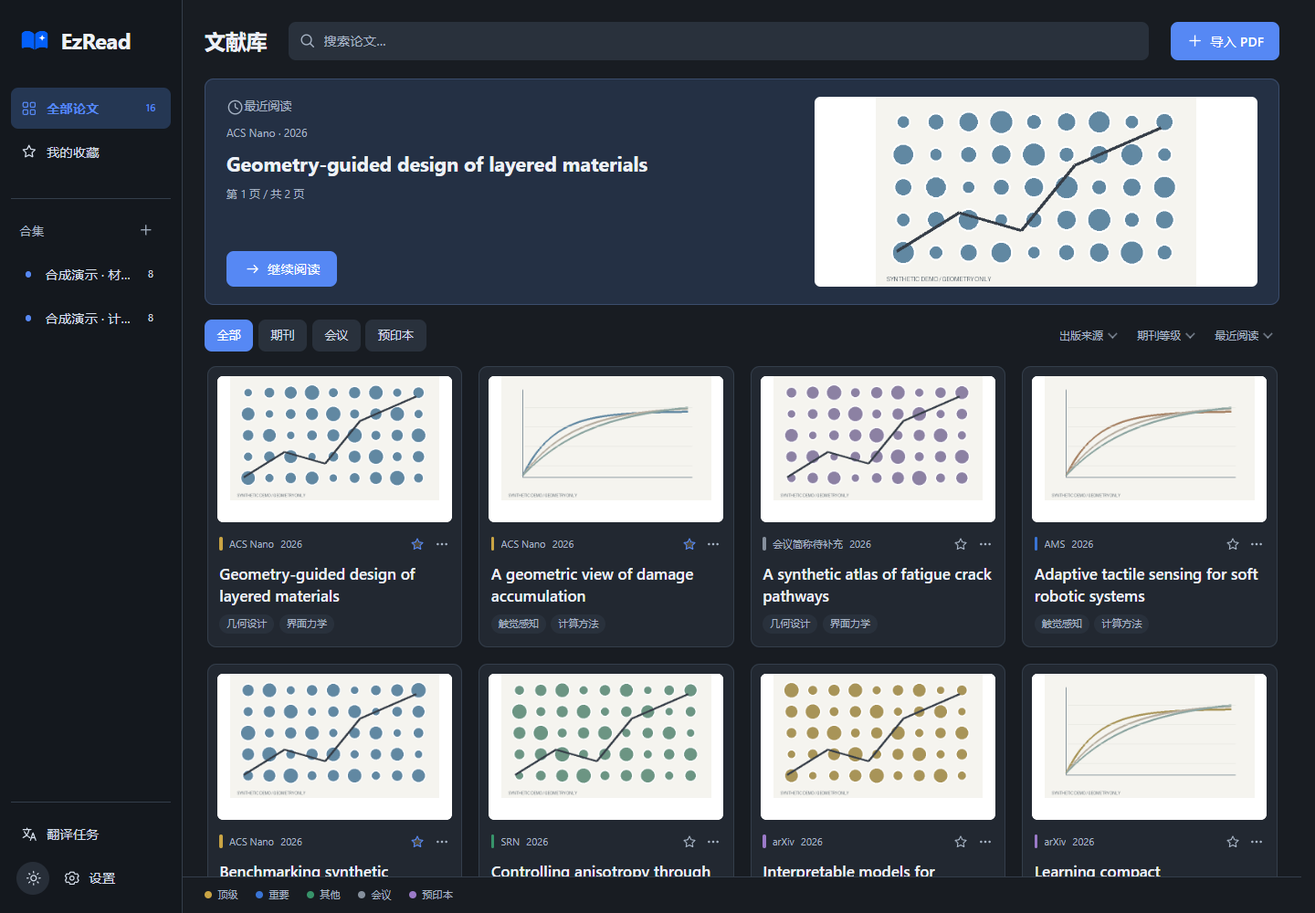
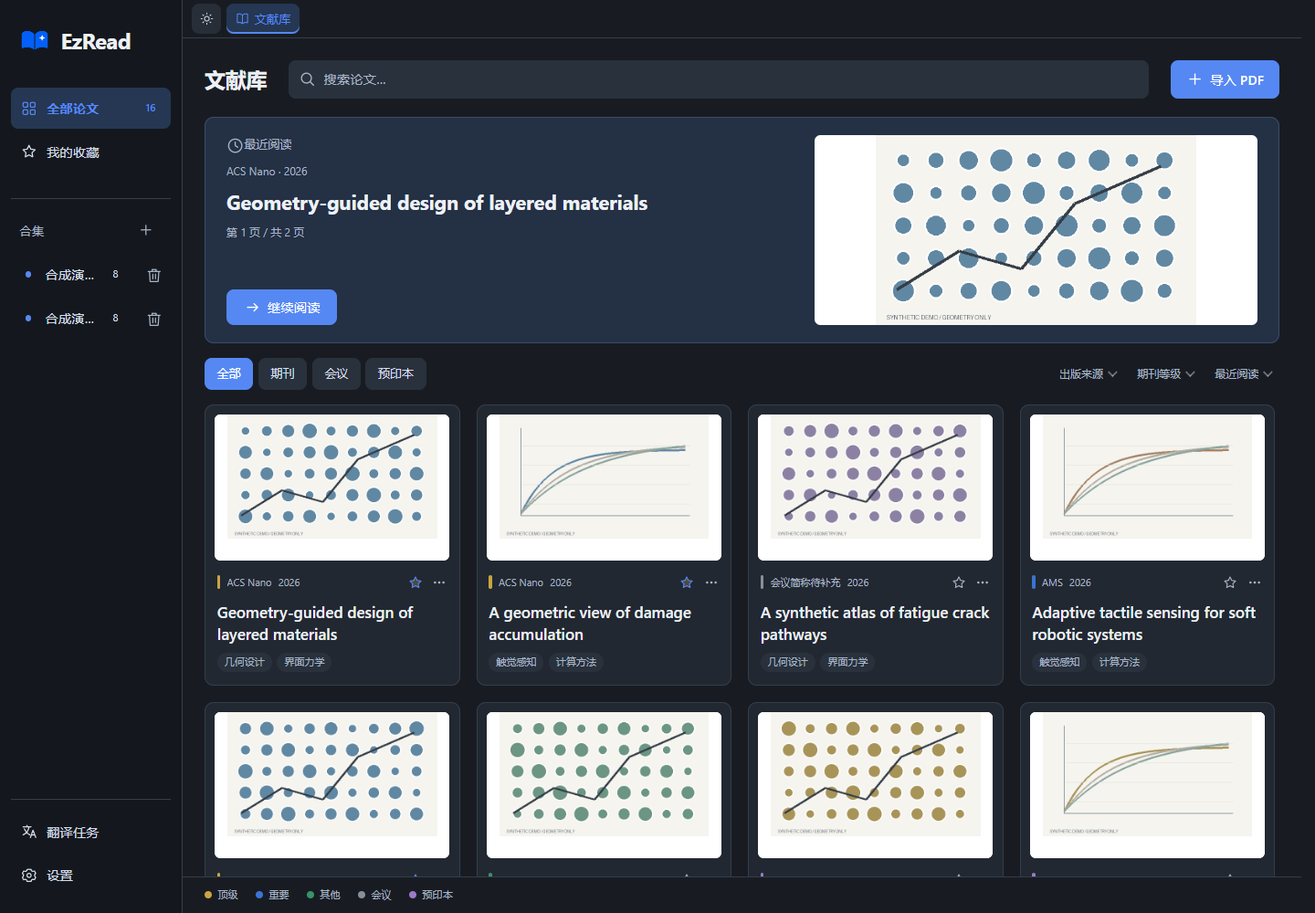
docs: improve onboarding, demos, feedback and maintenance evidence

diff --git a/scripts/capture-showcase.py b/scripts/capture-showcase.py
@@ -131,11 +131,14 @@ def generate_pdfs(destination):
 def main():
     parser = argparse.ArgumentParser(description=__doc__)
     parser.add_argument('--generate-pdfs', type=Path, help=argparse.SUPPRESS)
-    parser.add_argument('--node', default=os.environ.get('EZREAD_NODE', r'D:\APP\Node\node.exe'))
+    parser.add_argument('--node', default=os.environ.get('EZREAD_NODE') or shutil.which('node'),
+                        help='Node.js executable; defaults to EZREAD_NODE or PATH')
     args = parser.parse_args()
     if args.generate_pdfs:
         generate_pdfs(args.generate_pdfs)
         return
+    if not args.node:
+        parser.error('Node.js is required; add it to PATH or pass --node <executable>')
     output = ROOT / 'output/playwright' / f'showcase-{uuid.uuid4().hex}'
     data, pdfs = output / 'data', output / 'synthetic-pdfs'
     output.mkdir(parents=True)
@@ -212,8 +215,6 @@ def main():
             environment = {**os.environ, 'EZREAD_TEST_URL': f'http://127.0.0.1:{server.PORT}',
                            'EZREAD_TEST_ROOT': str(ROOT), 'EZREAD_TEST_DATA': str(data),
                            'EZREAD_TEST_OUTPUT': str(output)}
-            runtime = Path.home() / '.cache/codex-runtimes/codex-primary-runtime/dependencies/node'
-            environment.setdefault('EZREAD_PLAYWRIGHT', str(runtime / 'node_modules/playwright'))
             subprocess.run([args.node, str(ROOT / 'tests/capture_showcase.cjs')], cwd=ROOT,
                            env=environment, timeout=180, check=True)
             assert not forbidden, forbidden

diff --git a/docs/MAINTENANCE.md b/docs/MAINTENANCE.md
@@ -1,0 +1,56 @@
+# 维护、验证与真实反馈记录
+
+[中文介绍](../README.md) · [English overview](../README.en.md) · [提交反馈](https://github.com/Laity-nun0/EzRead/issues/new/choose)
+
+本记录供试用者和外部审阅者核查：解决过什么问题、证据在哪里、哪些仍未验证。核对日期为 **2026-10-21（UTC+8）**；没有将维护者自测、模拟结果或下载次数记为独立用户体验。
+
+## 已发布基线
+
+准备工作开始时，公开默认分支 `main` 与本地 HEAD 均为 `8c3cfe803ad3d52dd1856fbb21a9bc9777f0e7c2`；源码版本为 3.5.6。GitHub [Latest Release](https://github.com/Laity-nun0/EzRead/releases/latest) 在核对时指向 [windows-v3.5.6](https://github.com/Laity-nun0/EzRead/releases/tag/windows-v3.5.6)，发布于 2026-10-20，非草稿、非预发布。五个附件均显示已上传，含安装器、源码 ZIP、文件清单、SHA-256 清单和第三方声明。
+
+这些是本次读取公开 API 的结果，不代表本次重新下载、安装或核对了所有附件字节。功能与限制沿用该版本；本轮文档、模板和截图通过 `main` 提供，3.5.6 Release 及其附件保持原状，不发布新安装包。
+
+## 可核查的维护工作
+
+| 问题与用户可见结果 | 修复与发布 | 可检查的验证入口 |
+| --- | --- | --- |
+| 3.5.4 安装版缺少 BabelDOC 内部 `data` 资源，首次模型请求前翻译失败；3.5.5 保留依赖资源并限制根目录数据排除范围 | [5149d70](https://github.com/Laity-nun0/EzRead/commit/5149d70f0d0d0711aa6efce25d8389213522e450)，[3.5.5 Release](https://github.com/Laity-nun0/EzRead/releases/tag/windows-v3.5.5)；[问题与根因](KNOWN_ISSUES.md) | [发布边界与清单回归](../tests/test_release.py)、[安装后真实引擎模拟流程](../scripts/verify-installed-pdf.py)；导入探测通过不能代替完整流程 |
+| 多篇论文标签、关闭重开后的会话恢复，以及翻译未完成时的退出提醒 | [5149d70](https://github.com/Laity-nun0/EzRead/commit/5149d70f0d0d0711aa6efce25d8389213522e450)，[3.5.5 Release](https://github.com/Laity-nun0/EzRead/releases/tag/windows-v3.5.5) | [阅读会话验证](../scripts/verify-reader-session.py)、[关闭与后台归属验证](../scripts/verify-exit.py)；原生检查需独立文献库及 verification session |
+| PDF 重绘先清空画面造成闪动；改为画布完成后一次显示，并保留选择与复制 | [8c3cfe8](https://github.com/Laity-nun0/EzRead/commit/8c3cfe803ad3d52dd1856fbb21a9bc9777f0e7c2)，[3.5.6 Release](https://github.com/Laity-nun0/EzRead/releases/tag/windows-v3.5.6) | [PDF 回归](../tests/test_reader_pdf.js)、[实际浏览器阅读验证](../scripts/verify-reader-text.py)包含延迟绘制期间保留画面及文字层检查 |
+| 删除合集时保留其中论文与阅读数据；成功翻译后清理可丢弃的排版中间文件，失败与暂停材料继续保留 | [8c3cfe8](https://github.com/Laity-nun0/EzRead/commit/8c3cfe803ad3d52dd1856fbb21a9bc9777f0e7c2)，[3.5.6 Release](https://github.com/Laity-nun0/EzRead/releases/tag/windows-v3.5.6) | [合集回归](../tests/test_collections.py)、[PDF 任务回归](../tests/test_pdf_translation_tasks.py)，覆盖数据保留、哈希与路径边界 |
+
+这些工作在本轮之前已实现并发布，本轮没有重复修改功能。历史修复没有公开 Issue 时，以上使用实际提交与 Release 关联，不补造用户报告。
+
+公开 CI 可复核：[3.5.6 的 Windows/Python 3.10 与 3.12 离线检查及桌面构建](https://github.com/Laity-nun0/EzRead/actions/runs/39354168314)均成功；[3.5.6 安装包流水线](https://github.com/Laity-nun0/EzRead/actions/runs/39354168137)的构建、安装、启动、升级、卸载步骤均成功。入口为 [checks.yml](../.github/workflows/checks.yml) 与 [windows-installer.yml](../.github/workflows/windows-installer.yml)。这是对应提交当时的 CI 结果，不能代替新改动或真实账号的验收。
+
+## 2026-10-21 本轮准备工作与检查
+
+- 保留中文 README，增加[英文入口](../README.en.md)、离线首次试用步骤、API 条件及数据发送提示。
+- 更新五张[实际界面截图](images/README.md)，使用独立合成库与手写模拟译文，显示 3.5.6 的标签栏和常驻侧栏。修正拍摄脚本中的本机 Node／Playwright 路径依赖；未修改产品功能。
+- 新增[错误报告](../.github/ISSUE_TEMPLATE/bug_report.md)与[试用反馈](../.github/ISSUE_TEMPLATE/trial_feedback.md)模板，在[贡献指南](../CONTRIBUTING.md#试用反馈与维护追踪)中约定 Issue → 修复／PR → 回归 → Release → 复测的记录方式。
+
+| 检查 | 本轮结果与边界 |
+| --- | --- |
+| `python scripts/capture-showcase.py` | 通过，五张截图；页面／控制台／HTTP 错误和外部请求均为 0，私有配置读取和真实模型调用为 0。浏览器结果，不是原生安装验收 |
+| `python scripts/verify-reader-text.py` | 通过，6 项浏览器检查；覆盖宽窄视口、后台完成后双 PDF、重绘期间保留画面与文字层、复制、缩放、笔记和位置恢复。真实模型调用、真实库写入及页面错误均为 0 |
+| `python scripts/check.py` | 退出码 0。Python 共运行 711 项测试，4 项按环境条件跳过，未视为已验收；其余通过。Ruff、源码内容审查、前端语法及全部 Node 回归通过；普通验证未执行真实模型推理 |
+| 文档链接、模板及发布内容检查 | 7 份 Markdown 的 71 个本地链接／锚点和两份模板元数据通过；缺少 Node 时在建库前明确失败。Ruff、483 个候选路径的源码内容审查及 `git diff --check` 通过；五张截图逐张检查。没有将此检查称为 Git 历史审计或 GitHub 模板上线验收 |
+| 推送前隐私与历史检查 | 远端基线为 `8c3cfe8`，开始时没有额外待推送提交；本次仅纳入 13 个文档、模板、合成截图及拍摄脚本文件。检查文本、逐张截图及 PNG 元数据，未发现私人文献、对话、账号凭据或个人路径；五张 PNG 均无附加元数据。提交使用公开 GitHub noreply 身份，不发布本机配置、库或日志 |
+
+本轮没有以真实密钥调用供应商，也没有重新执行安装、升级、卸载或跨显示器原生验收。截图中的文献直接由 fixture 建立，不构成新用户导入成功的证据。复杂扫描件、公式、图表、特殊字体和旋转页的实际译文仍须人工对照原 PDF；模拟响应不能证明语义准确或所有可见对象完整。
+
+## 公开数据快照与口径
+
+数据来自 2026-10-21 读取的 [GitHub 仓库 API](https://api.github.com/repos/Laity-nun0/EzRead)、[全部 Release API](https://api.github.com/repos/Laity-nun0/EzRead/releases?per_page=100)及[全部 Issue／PR 列表 API](https://api.github.com/repos/Laity-nun0/EzRead/issues?state=all&per_page=100)。返回 5 个公开 Release、0 条 Issue／PR，均未达每页 100 条上限；以下只是当日快照。
+
+| 指标 | 数值及统计范围 |
+| --- | --- |
+| Release 安装器下载计数 | 合计 **7**：3.5.2 为 0、3.5.3 为 0、3.5.4 为 4、3.5.5 为 1、3.5.6 为 2；仅累计 `*-Setup-x64.exe` 的 `download_count` |
+| Release 源码 ZIP 下载计数 | 合计 **1**，来自 3.5.6 的显式源码附件；不含 GitHub 自动生成的 ZIP／tarball、clone 或其他附件 |
+| Star | **0**，仓库 `stargazers_count`；与安装／使用无直接等价关系 |
+| 外部 Issue | **0**，已公开 Issue 中非维护者账号提交的条目，含已关闭条目、排除 PR；没有把私下交流补记为公开 Issue |
+| 外部 PR | **0**，公开列表中的非维护者 PR，含已关闭条目；没有把本地提交算作社区贡献 |
+| 独立用户数、活跃用户数 | **未知**；未部署遥测或账号统计，下载中可能含维护者验证及重复下载 |
+| 结构化外部试用反馈 | 尚无公开记录；模板提供后续收集方式，未虚构评价 |
+
+不能从上述小样本下载量推出真实用户数或项目影响力。后续只在实际重新读取来源时更新日期和数值；若接口超出一页须分页，不用 `open_issues_count` 代替全部 Issue 或 PR 数。

diff --git a/README.md b/README.md
@@ -1,6 +1,10 @@
 # EzRead
 
+[English](README.en.md) · [下载安装](https://github.com/Laity-nun0/EzRead/releases/latest) · [首次试用](#首次试用) · [维护与验证记录](docs/MAINTENANCE.md) · [报告问题或反馈](https://github.com/Laity-nun0/EzRead/issues/new/choose)
+
 **独立维护的 Windows 论文阅读器，基于开源 EzRead 深度二次开发。**
+
+面向需要整理本地英文 PDF、对照中文译文并记录笔记的学生与科研人员。当前软件界面为中文；本文功能说明以已发布的 [3.5.6](https://github.com/Laity-nun0/EzRead/releases/tag/windows-v3.5.6) 为基线，发布状态核对日期为 2026-10-21。
 
 本项目源自 [zhuangcao136-glitch/EzRead](https://github.com/zhuangcao136-glitch/EzRead)，由 [Laity-nun0](https://github.com/Laity-nun0/EzRead) 在其基础上持续开发。保留原项目的 MIT 版权声明与提交历史；当前仓库独立维护翻译流程、阅读界面和 Windows 安装版。改动发生在本仓库，不会自动修改原作者仓库。
 
@@ -18,7 +22,7 @@
 
 ## 当前界面
 
-以下截图来自实际运行的当前界面，使用完全合成的文献、配图及演示数据。阅读器中的中文 PDF 为手写模拟译文，仅展示界面，不代表真实模型翻译质量。
+以下截图于 2026-10-21 从实际运行的 3.5.6 网页界面拍摄，使用完全合成的文献、配图及演示数据。阅读器中的中文 PDF 为手写模拟译文，仅展示界面，不代表真实模型翻译质量；未调用模型。截图不包含原生窗口边框。来源、操作顺序和复现方法见[演示说明](docs/images/README.md)。
 
 ### 日间文献库
 
@@ -45,7 +49,7 @@
 - **导入和整理**：拖入 PDF，使用收藏、手动合集、搜索与筛选整理文献。期刊颜色依据[内置名单](JOURNAL_TIERS.md)，可在设置中编辑，不代表单篇论文质量。
 - **多篇阅读**：顶部标签栏切换文献，点击标签的关闭按钮只关闭该篇；点击“文献库”可继续打开其他文献。阅读时保留侧边栏与同一顶部导航，日夜切换在文献库按钮左侧，翻译任务与设置上下排成一列。重新启动会恢复关闭前的标签、当前篇与已保存的阅读状态。
 - **关闭提醒**：仍有运行或排队中的翻译任务时，关闭应用会先询问。选择“否”继续使用；确认退出后暂停任务，已完成的结果保留，重开后可手动继续。
-- **按需翻译**：在设置中保存翻译 API Key，再从论文的翻译入口确认任务。版面解析与排版在本地，必要原文与术语发送给所选 API；费用由供应商收取。复杂表格、公式、特殊字体和扫描件有适用限制，详见[保留版式翻译](docs/PDF_LAYOUT.md)。
+- **按需翻译**：在设置中保存翻译 API Key，再从论文的翻译入口确认任务。版面解析与排版在本地，必要原文与术语发送给 DeepSeek API；费用由供应商收取。复杂表格、公式、特殊字体和扫描件有适用限制，生成成功也需对照原 PDF 核对语义与图形，详见[保留版式翻译](docs/PDF_LAYOUT.md)。
 - **问答与笔记**：问答使用独立配置与本篇证据，历史对话保存在本机。论文笔记与阅读位置持久保存；当前 PDF 阅读器尚无坐标批注或译文手工修订入口。
 - **数据目录**：安装版初始位置为 `%LOCALAPPDATA%\EzRead\data`，源码版为项目 `data/`。3.5.3 起可在“设置 → 文献与备份 → 选择目录并迁移”中更改，核验后自动重启，原库保留。选择软件安装位置不会改变文献目录。
 - **备份与升级**：在设置中导出备份，退出软件后安装新版。卸载保留文献库。备份不包含 API 密钥，换电脑后需重新填写；目录迁移则在本机完整复制私有配置。详细步骤见[安装版说明](docs/INSTALLER.md)。
@@ -53,6 +57,16 @@
 `EZREAD_DATA_DIR` 可显式指定已有文献库，优先于界面保存的位置；它只切换指向，不会搬迁文件。环境变量控制目录时，界面会要求先解除覆盖再迁移。不同时启动多份软件写入同一库。
 
 本地阅读无需密钥。模型功能的发送范围见 [API 使用说明](docs/AI_API.md#使用与发送范围)：新 PDF 导入后，配置完整时会自动校对首页与标题结构；全文翻译、问答与研究速览按界面操作发起。保存设置、启动和刷新状态不调用模型、不查询账户余额；用量只显示本次运行的供应商报告值。
+
+## 首次试用
+
+1. 安装后从桌面或开始菜单打开 EzRead。没有文献时显示空库是正常状态；本地阅读无需注册 EzRead 账号或配置模型。
+2. 点击“导入 PDF”或拖入一篇你有权使用、带可选文字的 PDF。点击文献卡片直接阅读，阅读器内的“论文简介”可查看信息；用顶部“文献库”返回列表，可继续打开其他论文标签。
+3. 在阅读器点击“笔记”记录一句话，翻到另一页，正常关闭后重新打开，核对标签、笔记和阅读位置是否保留。这一步无需联网或模型。
+4. 如需翻译，在“设置 → 翻译”保存自己的 DeepSeek API Key，再从“保留版式翻译”入口审阅并确认任务。问答密钥在“设置 → 问答”独立保存。需要 API 服务可达、相应模型权限及可用额度；本机显示配置就绪不代表服务已经连通。**配置翻译密钥后，新导入 PDF 的结构校对会自动发送候选文字**，详见上述发送范围。
+5. 翻译完成后对照原文／译文，尝试同步滚动并核对公式和图表；也欢迎只反馈前三步的离线体验。用[试用反馈模板](https://github.com/Laity-nun0/EzRead/issues/new?template=trial_feedback.md)记录实际完成的步骤、阻碍和是否调用过真实模型。
+
+安装程序尚未进行商业代码签名；Windows 以外的系统未经本项目桌面验收。已修复的安装故障见[已知问题与修复](docs/KNOWN_ISSUES.md)，当前 PDF 能力与限制见[翻译说明](docs/PDF_LAYOUT.md)。
 
 ## 源码与开发
 
@@ -68,4 +82,4 @@ git clone https://github.com/Laity-nun0/EzRead.git
 
 感谢原项目作者与第三方组件贡献者。独立维护和大幅改造不改变原代码的版权来源。项目源码与文档沿用 [MIT License](LICENSE)；ECDICT、BabelDOC、PyMuPDF／MuPDF 等资源遵循各自许可。安装包中的 AGPL PDF 组件附带对应源码，详见[第三方声明](THIRD-PARTY-NOTICES.md)。
 
-问题请提交至[本仓库 Issues](https://github.com/Laity-nun0/EzRead/issues)，附图前遮住私人论文、对话和账号信息。本仓库的版本号和发布节奏独立于上游，不表示已经合入上游后续功能。
+问题请使用[错误报告或试用反馈模板](https://github.com/Laity-nun0/EzRead/issues/new/choose)，提供软件与 Windows 版本、复现步骤、预期和实际结果；附图或日志前移除私人论文、对话、账号、密钥与授权链接。不要上传整个文献库或 API 原始响应。维护者如何关联问题、修复和版本见[贡献指南](CONTRIBUTING.md#试用反馈与维护追踪)，已完成工作与验证边界见[维护记录](docs/MAINTENANCE.md)。本仓库的版本号和发布节奏独立于上游，不表示已经合入上游后续功能。

diff --git a/README.en.md b/README.en.md
@@ -1,0 +1,43 @@
+# EzRead
+
+[简体中文](README.md) · [Download](https://github.com/Laity-nun0/EzRead/releases/latest) · [Feedback](https://github.com/Laity-nun0/EzRead/issues/new/choose)
+
+**A Windows desktop reader for researchers and students who organize local papers and read English PDFs alongside Chinese translations.** The current application UI is in Chinese.
+
+This independently maintained derivative of [zhuangcao136-glitch/EzRead](https://github.com/zhuangcao136-glitch/EzRead) preserves the upstream MIT notice and history. The features below describe released **3.5.6**, checked on 2026-10-21. See [provenance](docs/DERIVATION.md) and [maintenance evidence](docs/MAINTENANCE.md) for implementation, release and verification links.
+
+## What works today
+
+- Import PDFs, search and filter a local library, manage favorites and manual collections.
+- Read several papers in tabs; restore tabs, reading positions and notes after restarting.
+- Generate derived Chinese and bilingual PDFs through BabelDOC and your own DeepSeek API access; compare original and translated PDFs with synchronized scrolling.
+- Ask questions about the current paper using a separately configured API key; keep conversations and notes locally.
+- Back up the library, migrate its directory through Settings, and upgrade or uninstall while retaining user data.
+
+![Library with synthetic papers](docs/images/library.png)
+
+![Original and manually authored Chinese demonstration PDF](docs/images/reader.png)
+
+These are actual browser-rendered 3.5.6 screens captured on 2026-10-21, without native window borders. All papers and figures are synthetic. The Chinese PDF was manually authored, **not generated by a model**. No real model calls were made. See [all screenshots and reproduction instructions](docs/images/README.md).
+
+## Install and try
+
+Use Windows 10 1809 or later, x64, with .NET Framework 4.8 and WebView2. Download `EzRead-<version>-Setup-x64.exe` from [Releases](https://github.com/Laity-nun0/EzRead/releases/latest). Python and the PDF runtime are included; missing WebView2 requires an internet download during installation. The installer is not commercially code-signed. Other operating systems have not been validated for this desktop edition.
+
+1. Open EzRead from the desktop or Start menu. An empty library is normal on first launch.
+2. Choose **导入 PDF** (Import PDF), or drag in a text-based PDF you may use. Click its card to read; **论文简介** opens its details. **文献库** returns to the library so you can open another tab.
+3. Open **笔记** (Notes), write a note, move to another page, then close and reopen EzRead to check restoration. This local workflow needs no account, API key or network.
+4. Optionally save a DeepSeek key under **设置 → 翻译** (Settings → Translation). Choose **保留版式翻译**, review the task and confirm. Q&A has its own key under **设置 → 问答**. AI requires network access, model permission and available provider quota. Saving a key does not test connectivity.
+5. Compare the resulting PDFs and check formulas, figures and meaning. Report what you actually tried using the [trial feedback template](https://github.com/Laity-nun0/EzRead/issues/new?template=trial_feedback.md), or file a [bug report](https://github.com/Laity-nun0/EzRead/issues/new?template=bug_report.md).
+
+No Codex installation or sign-in is needed. The current UI exposes DeepSeek; retained backend protocol compatibility does not make other providers selectable. **Once a translation key is configured, importing a new PDF automatically sends first-page and candidate-heading text for structure checking.** Full translation, Q&A and research overviews follow explicit UI actions. See [data sent to APIs](docs/AI_API.md#使用与发送范围).
+
+## Limits, data and contribution
+
+Complex layouts, scanned PDFs, unusual fonts, formulas and rotated text need manual review. A successful job or simulated test does not establish translation accuracy or complete visual fidelity. PDF coordinate annotations and manual translation editing are not exposed in the current reader. See [PDF limitations](docs/PDF_LAYOUT.md) and [known issues and fixes](docs/KNOWN_ISSUES.md).
+
+Installed data defaults to `%LOCALAPPDATA%\EzRead\data`; source runs use the repository's `data/`. Export a backup and close EzRead before upgrading. Exported backups exclude API keys. See [installation and migration](docs/INSTALLER.md).
+
+For source setup and checks, use [CONTRIBUTING.md](CONTRIBUTING.md); detailed technical guides are currently in Chinese. Submit issues in Chinese or English with the app version, OS version, reproduction steps, expected and actual results. Remove keys, authorization links, private papers and personal details from attachments; do not upload a whole library or raw API responses.
+
+Source and documentation retain the [MIT License](LICENSE). Bundled components retain their own licenses and source obligations; see [third-party notices](THIRD-PARTY-NOTICES.md).

diff --git a/docs/images/README.md b/docs/images/README.md
@@ -1,0 +1,37 @@
+# 实际界面演示与复现
+
+[中文介绍](../../README.md) · [English overview](../../README.en.md) · [维护与验证](../MAINTENANCE.md)
+
+## 演示来源与操作
+
+2026-10-21，Windows 11 x64，源码版本 3.5.6，功能基线为提交 `8c3cfe803ad3d52dd1856fbb21a9bc9777f0e7c2`。使用 Python 3.12.0、Node.js 24.14.0、Playwright 1.62.1 和本机 Edge，以 1440 × 1000 视口拍摄实际运行的网页界面；没有原生窗口边框，不是设计稿或原生安装验收。
+
+Actual browser-rendered UI, synthetic data, no model calls. The Chinese PDF is manually authored. These screenshots demonstrate the interface, not translation quality or an installer test.
+
+| 顺序 | 截图 | 可看到的实际操作 |
+| --- | --- | --- |
+| 1 | [日间文献库](library.png) | 打开包含 16 篇合成文献的隔离库，显示最近阅读、收藏、合集和卡片 |
+| 2 | [夜间文献库](library-dark.png) | 点击顶部日月按钮切换夜间主题 |
+| 3 | [PDF 对照阅读](reader.png) | 切回日间，点击“继续阅读”，打开已有合成原文与手写中文 PDF；显示标签栏、常驻侧栏与同步滚动入口 |
+| 4 | [期刊等级](journal-tiers.png) | 返回文献库，打开“设置 → 期刊等级” |
+| 5 | [翻译设置](translation-settings.png) | 切换到“翻译”设置；密钥为空，不提交任务 |
+
+正文、封面、曲线和中文 PDF 均由演示脚本创作，没有使用真实论文或实测数据。卡片借用部分真实期刊名称来展示名单配色，不代表这些虚构论文曾在该期刊发表。文献元数据和已有译文由脚本直接写入隔离库，**没有演示导入解析或实际模型翻译**。翻译结果和研究结论不能从这些图片推断。
+
+拍摄核对 `/api/health` 的源码目录、独立数据目录和版本，等待全部封面及两侧 PDF 画布／文字层加载，检查 JS、HTTP 和控制台错误；浏览器拦截外部请求和模型功能提交，服务端阻止模型调用并屏蔽私有 API 配置读取。本次五张均拍摄成功，错误、外部请求和模型调用均为 0，并逐张检查公开内容。
+
+## 在自己的工作区重拍
+
+先按[贡献指南](../../CONTRIBUTING.md)准备项目虚拟环境，并按 [PDF 运行时说明](../PDF_LAYOUT.md#独立运行时)准备 `.deps/babeldoc/runtime/`。需要 Windows、已安装的 Microsoft Edge、Node.js 与 Playwright；已有 Playwright 可直接通过 `EZREAD_PLAYWRIGHT` 指定模块目录。首次获取依赖需要联网，拍摄时只允许回环请求。
+
+没有现成 Playwright 时，可只在忽略的 `work/` 中安装演示依赖，不改变产品依赖或全局 npm：
+
+```powershell
+npm install --prefix work/showcase-tools --no-save playwright@1.62.1
+$env:EZREAD_PLAYWRIGHT = Join-Path (Get-Location) 'work/showcase-tools/node_modules/playwright'
+.\.venv\Scripts\python.exe scripts/capture-showcase.py
+```
+
+脚本优先使用 `EZREAD_NODE`，否则从 PATH 找 Node；也可传 `--node <可执行文件路径>`。脚本创建随机端口和全新合成库，不需要运行真实 EzRead；不要把真实 `data/` 复制进演示目录。它会更新此目录的五张固定 PNG，模型配置保持模拟且密钥为空。
+
+本机诊断输出位于 `output/playwright/showcase-<随机ID>/`，包含合成库和带本机路径的报告，**不用于直接公开**。先核对报告、逐张检查截图，并确认脚本与浏览器进程退出；验证成功后仅保留五张交付图片，删除本次不再需要的合成库、报告和截图副本。依赖目录如需再次拍摄可保留。

diff --git a/CONTRIBUTING.md b/CONTRIBUTING.md
@@ -2,6 +2,21 @@
 
 先阅读 [AGENTS.md](AGENTS.md) 和 [架构说明](docs/ARCHITECTURE.md)。个人定制可以在自己的分支维护；适合大家的改动再提交 Pull Request。
 
+## 试用反馈与维护追踪
+
+无需先搭开发环境。安装用户可按 [README 的首次试用流程](README.md#首次试用)体验，再使用[错误报告或试用反馈模板](https://github.com/Laity-nun0/EzRead/issues/new/choose)。中文、英文反馈均可；顺利完成的步骤和遇到的阻碍都有帮助。软件版本、Windows 版本、安装版／源码版、复现步骤及预期／实际结果比一句“不能用”更便于处理。涉及模型时说明是否真实调用、供应商和安全错误码，无需提供密钥或原始响应。
+
+附件先移除私人论文、对话、用户名、绝对路径、API Key、OAuth／授权链接和账号信息。优先用合成或有权公开的小样本；不要上传整个 `data/`、私有设置、浏览器 profile 或完整 API 请求／响应。暂时无法分享样本时，先说明版式和症状，不要求公开受限文献。
+
+维护工作沿用 GitHub Issue、提交／PR 和 Release，不另建用户统计系统：
+
+1. 在 Issue 中记录“待补充／已复现／未复现”，注明实际检查的版本和条件；同一故障关联原 Issue。
+2. 修复提交或 PR 引用 Issue，并说明回归入口及结果；尚未验证的部分明确保留。
+3. 发布说明列出修复的 Issue／PR、提交和版本；修复已在分支中但未发布时，明确标为“待发布”。
+4. 请报告者在修复版本复测并回复结果；没有回复不算验证成功。试用反馈中可继续关联后续问题，不将维护者自测称为外部用户试用。
+
+[维护与验证记录](docs/MAINTENANCE.md)汇总已有证据及本轮检查。新增记录只写实际发生的工作，注明日期、版本、命令／CI 链接和限制。下载次数按 Release 附件分别统计，Star、外部 Issue／PR 与独立用户数分别记录；未知就写未知，不把下载或自测当作用户数。
+
 ## 开发环境
 
 需要 Python 3.10+；开发依赖由 `requirements-dev.txt` 包含运行依赖与固定版本 Ruff。离线回归还需要 Node.js；前端本身无需 npm、CDN 或构建步骤。

diff --git a/.github/ISSUE_TEMPLATE/trial_feedback.md b/.github/ISSUE_TEMPLATE/trial_feedback.md
@@ -1,0 +1,36 @@
+---
+name: "试用反馈 / Trial feedback"
+about: "记录实际完成的操作、阻碍和建议 / Share what you tried and what got in the way"
+title: ""
+---
+
+只记录你实际体验过的内容；未尝试的功能可写“未尝试”。无需运行模型或付费来反馈本地阅读体验。中文、英文均可。
+Report only what you actually tried; mark other features as not attempted. Local-reading feedback needs no paid model calls. Chinese or English is welcome.
+
+### 版本与环境 / Version and environment
+
+- EzRead 版本／提交号 / App version or commit:
+- Windows 版本与系统架构 / Windows version and architecture:
+- 安装版或源码版 / Installer or source:
+
+### 实际尝试的流程 / Workflow actually tried
+
+例如：下载 → 首次启动 → 导入 → 阅读 → 保存笔记 → 关闭重开。请按顺序描述，注明停在哪一步。
+For example: download → launch → import → read → save a note → reopen. Describe the steps in order and where you stopped.
+
+### 预期与实际体验 / Expected and actual experience
+
+- 顺利完成的部分 / What worked:
+- 阻碍、错误或不清楚的地方 / What failed or was unclear:
+- 对应步骤及是否可重复 / Related step and reproducibility:
+
+### 模型调用情况 / Model usage
+
+- [ ] 未尝试模型功能 / No AI features attempted
+- [ ] 只配置或尝试调用，未获得成功结果 / Configured or attempted, no successful result
+- [ ] 实际 API 调用成功（可注明供应商与模型，无需密钥） / Real API call succeeded (provider/model only)
+
+### 建议或脱敏附件（可选） / Suggestions or redacted attachments, optional
+
+先移除私人论文、对话、账号、个人路径、密钥及 OAuth／授权链接。不要上传整个文献库、私有设置或原始 API 请求／响应。
+Remove private papers, conversations, account details, personal paths, keys and authorization links. Do not upload a whole library, private settings or raw API traffic.

diff --git a/.github/ISSUE_TEMPLATE/bug_report.md b/.github/ISSUE_TEMPLATE/bug_report.md
@@ -1,0 +1,41 @@
+---
+name: "错误报告 / Bug report"
+about: "提供复现步骤，帮助定位安装、阅读、保存或模型功能问题 / Report a reproducible problem"
+title: ""
+---
+
+请勿上传密钥、OAuth／授权链接、私有配置、整个文献库或完整 API 请求／响应。截图和日志请先移除私人论文、对话、账号及个人路径。中文、英文均可。
+
+Do not include keys, authorization links, private settings, a whole library or raw API requests/responses. Redact personal content and paths. Chinese or English is welcome.
+
+### 版本与环境 / Version and environment
+
+- EzRead 版本（安装文件名；源码可填提交号） / Version or commit:
+- Windows 版本与系统架构 / Windows version and architecture:
+- 安装版或源码版 / Installer or source:
+- 涉及的功能 / Affected feature:
+
+### 复现步骤 / Steps to reproduce
+
+1.
+2.
+3.
+
+### 预期结果 / Expected result
+
+
+### 实际结果 / Actual result
+
+请抄录安全错误提示或错误码；说明每次发生还是偶发。
+Include the safe error message/code and whether it happens consistently.
+
+### 模型相关条件（如适用） / AI conditions, if relevant
+
+- 是否配置 API、是否实际发送请求 / Configured, request actually sent, or not attempted:
+- 供应商与模型 / Provider and model:
+- 本机配置就绪不等于远程请求成功 / A local ready state does not prove a successful API call.
+
+### 最小样本或脱敏证据（可选） / Minimal sample or redacted evidence, optional
+
+优先使用合成或可公开的小样本。不能分享时描述页数、扫描件／可选文字、单双栏、旋转等条件即可；不要公开受限论文。
+Prefer synthetic or publicly shareable samples. Otherwise describe page count, scanned/selectable text, columns and rotation without sharing restricted papers.
